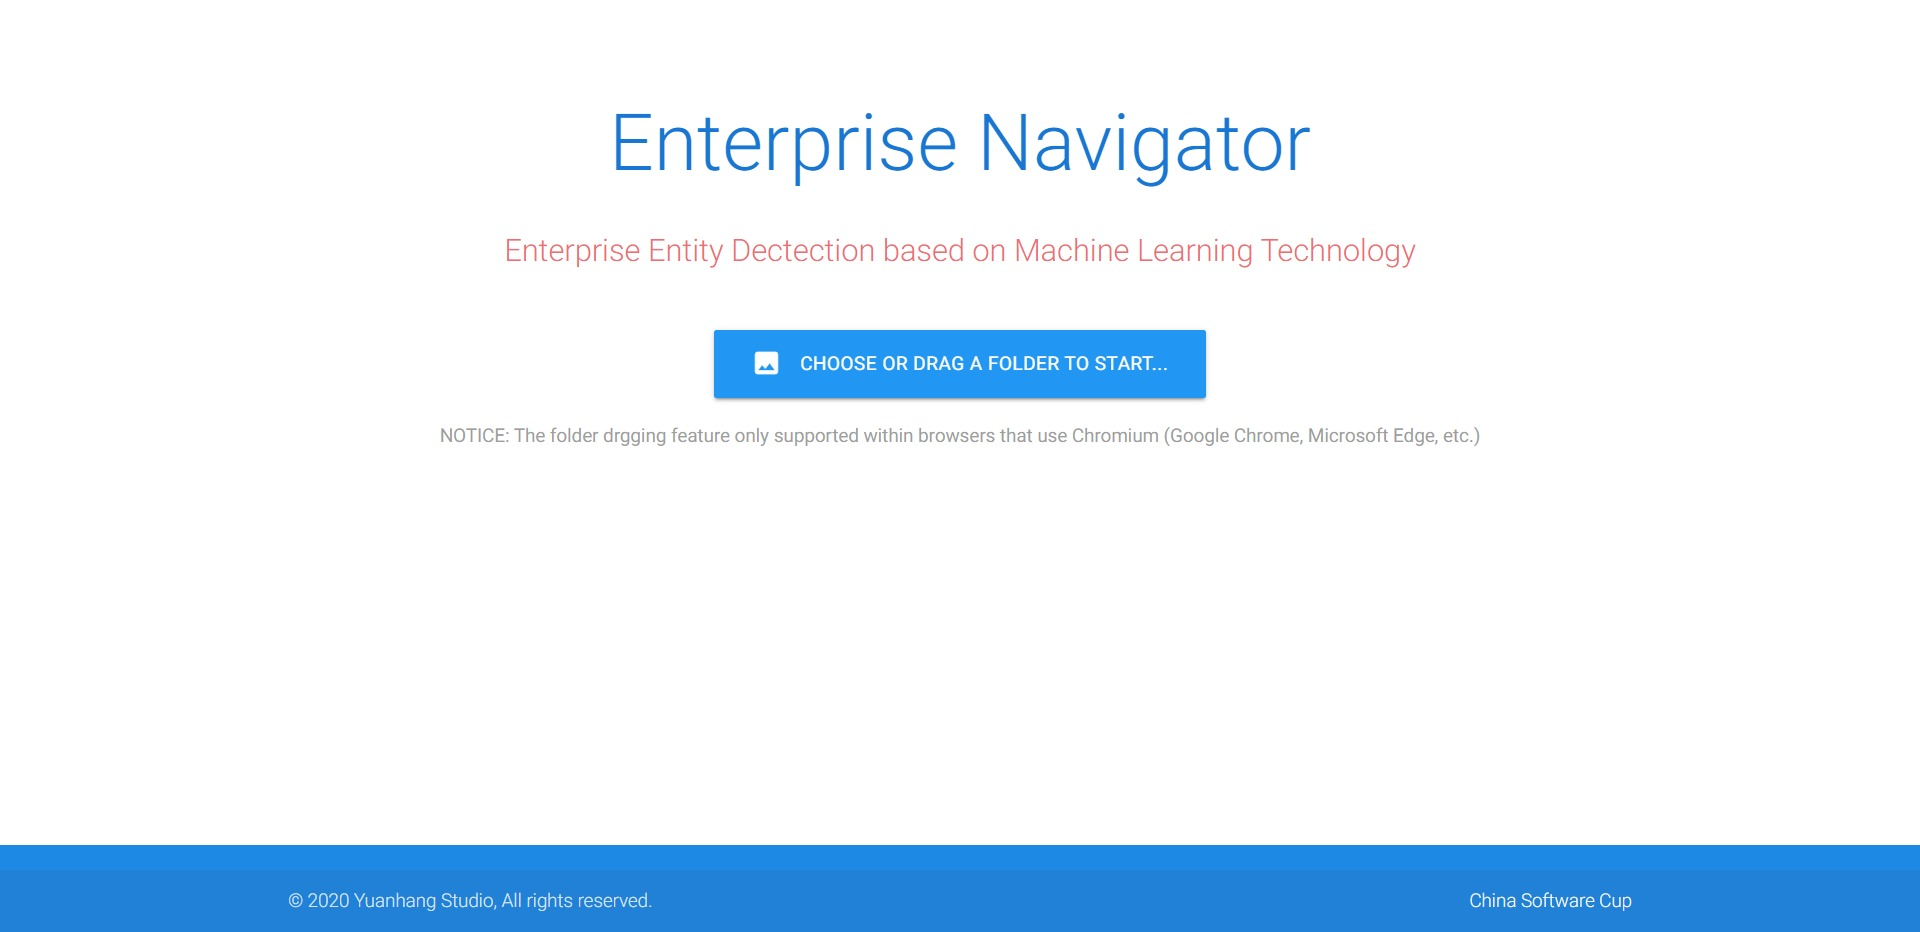
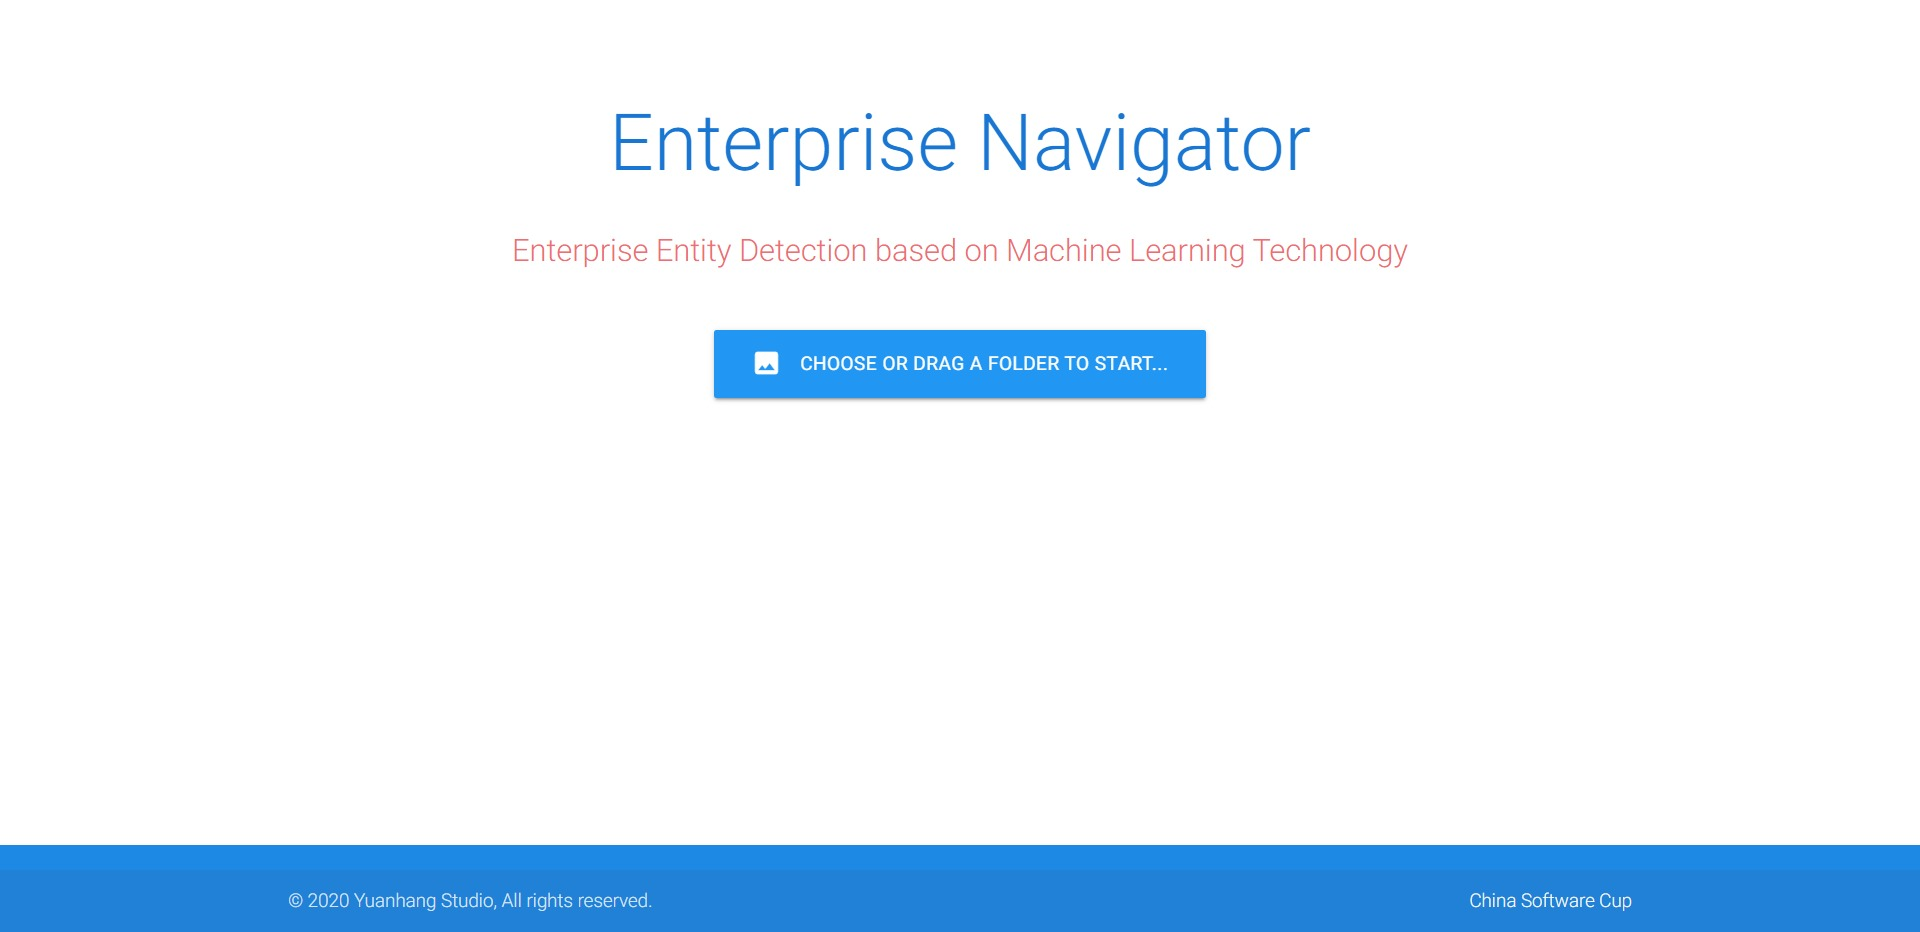
feat: update image

Changed region(s): [[0.25, 0.2489, 0.75, 0.28], [0.2812, 0.4667, 0.75, 0.4979]]

diff --git a/templates/index.html b/templates/index.html
@@ -18,7 +18,7 @@
         <div class="container">
             <h1 class="header center">Enterprise Navigator</h1>
             <div class="row center">
-                <h5 class="introduction col s12 light center">Enterprise Entity Dectection based on Machine Learning Technology</h4>
+                <h5 class="introduction col s12 light center">Enterprise Entity Detection based on Machine Learning Technology</h4>
             </div>
             <div class="row center">
                 <span style="display: none;" id="span-file-count" class="col s12 light center"></span>
@@ -163,7 +163,7 @@
                                 $("#start-scan").css("display", "");
                                 $("#choose-folder").css("display", "none");
                                 $("#span-file-count").css("display", "");
-                                $("#span-file-count").text(files.length + " files/folders dectected");
+                                $("#span-file-count").text(files.length + " files/folders detected");
                             });
                         }
                     }
@@ -174,7 +174,7 @@
                     $("#start-scan").css("display", "");
                     $("#choose-folder").css("display", "none");
                     $("#span-file-count").css("display", "");
-                    $("#span-file-count").text(e.target.files.length + " files dectected");
+                    $("#span-file-count").text(e.target.files.length + " files detected");
                 } else {
                     $("#start-scan").css("display", "none");
                     $("#choose-folder").css("display", "");
@@ -187,7 +187,7 @@
                 $("#file_selector").val(null);
                 $("#start-scan").css("display", "none");
                 $("#circle-progress").css("display", "");
-                $("#span-file-count").text("Dectecting...");
+                $("#span-file-count").text("Detecting...");
             });
 
             $("#choose-folder").click(function() {

diff --git a/util.py b/util.py
@@ -40,7 +40,7 @@ def batch_upload(headers, file_data):
     
     end = timeit.default_timer()
     delay = end-start
-    print('Eclapsed： %s 秒' % delay)
+    print('Eclapsed: %s second(s)' % delay)
     return response, delay
 
 # 将批量识别的结果保存到表格文件
@@ -53,10 +53,10 @@ def write_batch_detection_result(collections):
     # 创建Excel工作本
     book = openpyxl.Workbook()
     # 创建组
-    sheet = book.create_sheet('识别结果', 0)
+    sheet = book.create_sheet('Results', 0)
 
-    sheet.cell(1, 1, '图片')
-    sheet.cell(1, 2, '商铺名称')    
+    sheet.cell(1, 1, 'Image')
+    sheet.cell(1, 2, 'Shop name')    
     # 将结果逐条写入表格中
     for i in range(len(collections)):
         sheet.cell(i + 1 + 1, 1, collections[i]['filename'])
@@ -106,7 +106,7 @@ def process_detection_result(json_data):
         
         # 识别失败
         if success == 0:
-            enterprise = '<识别失败>'
+            enterprise = '<failed>'
 
         img_filename = secure_filename(key)
         img_path = os.path.join(cfg.image_preview_folder, img_filename)

diff --git a/launch.py b/launch.py
@@ -119,7 +119,7 @@ def qcc_upload():
             delay=delay, 
             average_speed=average_speed, 
             excel_file=excel_filepath)
-    return '禁止访问！'
+    return 'Access denied!'
 
 # API——批量上传文件
 @app.route('/api/batch', methods=['POST'])
@@ -160,7 +160,7 @@ def handle_app_qcc():
             raw_data = detect_enterprise_from_upload_file(file)
             return jsonify(raw_data)
         else:
-            return generate_err_msg('file type not allowd')
+            return generate_err_msg('file type not allowed')
     return 'Access denied!'
 
 if __name__ == '__main__':

diff --git a/README.md b/README.md
@@ -7,18 +7,18 @@
 
 [简体中文](./docs/README_zh-cn.md)
 
-A shopsign dectection application based on AdvancedEAST and AttentionOCR
+A shopsign detection app based on AdvancedEAST and AttentionOCR
 
-- This was one of the projects during the "9th China Software Cup" (Second Part) competition.
-- Our team won the National First Prize in this competition.
+- This was one of the projects during the "9th China Software Cup" competition (Second Part).
+- Our team won the `National First Prize` in this competition.
 
 ## Feature
 
 - Target detection. Specifically, shopsign detection
-  - During the competiton, we used the dataset included to train our models.
+  - During the competiton, we used provided dataset to train our models.
 - Text recognition
-- Dectection evaluation
-- Results showcase
+- Detection evaluation
+- Result showcase
 - Interative web UI
 
 ## Dependency
@@ -37,7 +37,7 @@ gast==0.2.2
 
 ### Install requirements
 
-- Make sure you already have a system with Nvidia graphics that support CUDA.
+- Make sure you already have a machine with Nvidia graphics that support CUDA.
 - [Anaconda](https://www.anaconda.com/) is highly recommended.
 
 ```
@@ -46,10 +46,10 @@ pip install -r requirements.txt
 
 ### Install models
 
-- By default, if you haven't put any model inside `models` directory, it will automatically download our trained ones from [huggingface](https://huggingface.co/)
+- By default, if you haven't put any model inside `models` directory, it will automatically download our trained ones from [huggingface](https://huggingface.co/).
 - You can put your own models into `models` folder.
-  - Put AdvancedEAST models into `models/AdvancedEAST`
-  - Put AttentionOCR models into `models/AttentionOCR`
+  - Put AdvancedEAST models into `models/AdvancedEAST`.
+  - Put AttentionOCR models into `models/AttentionOCR`.
 
 ### Launch
 
@@ -67,7 +67,7 @@ http://localhost:6660
 
 MIT License
 
-### References
+### Reference
 
 [China Software Cup](http://www.cnsoftbei.com/)
 

diff --git a/docs/README_zh-cn.md b/docs/README_zh-cn.md
@@ -1,4 +1,4 @@
-# Enterprise Navigator
+# 企航 - 企业实体识别系统
 
 ![Homepage](../imgs/homepage.jpg)
 ![Showcase](../imgs/result_showcase.jpg)
